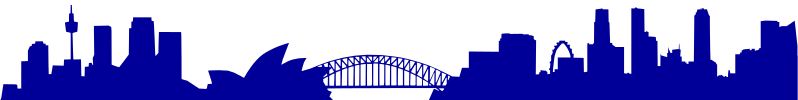
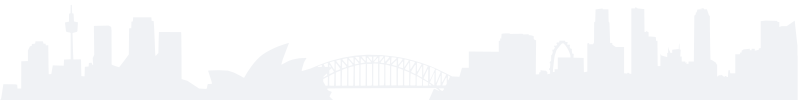
refactored theme to look like paper

diff --git a/static/style.css b/static/style.css
@@ -7,7 +7,7 @@
 
 
 /* Global Reset ***********************************************/
-html, body, h1, h2, h3, h4, h5, h6, form, fieldset, footer input, abbr,
+html, body, h1, h2, h3, h4, h5, h6, form, fieldset, abbr,
 img, table, object, iframe, a img,
 #sidebar nav ul, #sidebar nav li, #archive ul,#archive ul li {
   border:0px;           /* old opera: units even for 0 values */
@@ -23,30 +23,31 @@ hgroup, main, menu, nav, section { display:block }
 
 
 /* Palette ****************************************************/
-html,h2 a:hover {
-  background:#001581;
-  color:#ddddee;
+html {
+  background:#f0f2f5;
+  color:#5e7286;
 }
-#skyline {
-  background:#0099ff url("skyline-night.png") top center no-repeat;
-  height:100px;
-}
-h1 a,h3 a,table th,nav a,.archive dl a { color:#ffffff }
-h2 a { color:#ffffff }
-#sidebar nav a,a,time,#archive-show dl dd { color:#0099ff }
+a, nav a:hover { color:#0066ff }
+a:hover, nav a { color:#9b5dd5 }
 blockquote { 
-  border-left:5px solid #29339a;
-  color:#aaaadd;
+  border-left:1px solid #dce3ec;
+  color:#8e92a6;
 }
 pre { 
-  border-left:5px solid #29339a;
+  border-left:1px solid #29339a;
   background:#041264;
 }
-table { border-bottom:5px solid #29339a }
+table { border-bottom:1px solid #29339a }
 table th { background:#29339a }
-input {
-  background:#dee3f2;
-  color:#2b457e;
+small time {
+  text-transform:uppercase;
+  font-size:13px;
+  color:#7e92a6;
+}
+#skyline {
+  height:110px;
+  background:#ffffff url("skyline-soft.png") bottom center no-repeat;
+  margin-bottom:20px;
 }
 
 
@@ -57,11 +58,6 @@ only screen and (-o-min-device-pixel-ratio: 2/1),
 only screen and (-webkit-min-device-pixel-ratio: 2),
 only screen and (min-device-pixel-ratio: 2) {
 
-    #skyline {
-        background:#0099ff url("skyline-night2x.png") top center no-repeat;
-        background-size:821px 100px;
-    }
-
 }
 
 /* Top ********************************************************/
@@ -70,12 +66,21 @@ html {
   overflow-y:scroll;  /* persistent vertical scrollbars */
 }
 body {
-  /* Let agent choose font size (accessibility, readability, ility-ility, ah the praties) */
-  font-family:"Helvetica Neue","Source Sans Pro",Arial,"Liberation Sans",sans-serif;
+  font:16px "Helvetica Neue","Source Sans Pro",Arial,"Liberation Sans",sans-serif;
+  margin:0px auto;
   text-align:center;  /* ie6: centering */
 }
-h1,h2,h3 { font-weight:500; }
-h1,h2 { font-size:24px }
+#sandwich-wrapper {
+  text-align:left;   /* ie6: centering */
+  margin:0 auto;
+  width:780px;
+}
+h1,h2,h3 {
+  font-weight:500;
+  letter-spacing:-1px;
+}
+h1 { font-size:32px; }
+h2 { font-size:24px }
 h3 { 
   font-size:22px;
   margin-top:30px;
@@ -85,18 +90,9 @@ small {
   white-space:nowrap;
 }
 a, h1 a:hover, h2 a:hover { text-decoration:underline }
-h1 a, h2 a, a:hover { text-decoration:none }
+h1 a, h2 a { text-decoration:none; }  //text-shadow: 2px 2px 0px #dcdcdc; }
 img { display:inline; /* mozilla: fix default behaviour */ }
 ul { list-style-type:circle; }
-
-
-/* Sandwich Wrapper *******************************************/
-#sandwich-wrapper {
-  margin:0px auto;
-  padding:60px 0px 120px 0px;
-  text-align:left;  /* ie6: centering */
-  width:800px;
-}
 
 
 /* Accessibility **********************************************/
@@ -105,7 +101,8 @@ h1,h2,h3 {
      like the smell of toasted, overheating mobile devices */
   text-rendering:optimizeLegibility;
   letter-spacing:-1px;
-}
+  color:#5a7590;
+  }
 legend, #skip, #skip:hover, #skip:visited, #search input[type="submit"] {
   height:1px;
   left:0px;
@@ -122,10 +119,10 @@ hr {
 
 /* Header *****************************************************/
 #sidebar header h1 {
-  background:url("/logo-dark.svg") top center no-repeat;
-  font-size:30px;
+  background:url("/logo-white.svg") top center no-repeat;
   position:relative;
-  height:76px;
+  background-size:240px;
+  height:130px;//84px;
 }
 #sidebar h1 a {
   position:absolute;
@@ -138,6 +135,7 @@ hr {
   float:left;
   font-size:14px;
   line-height:20px;
+  padding-top:20px;
   width:140px;
 }
 #sidebar #mascot {
@@ -148,36 +146,66 @@ hr {
   display:none;
   visibility:hidden;
 }
+#sidebar nav ul li {
+}
+#sidebar nav ul {
+    border-top:1px solid #dce3ec;
+    box-shadow:2px 2px 5px #dcdcdc;
+}
+#sidebar nav ul li a {
+    display:block;
+    border:1px solid #dce3ec;
+    background:#ffffff;
+    border-top:0px;
+    text-decoration:none;
+    height:25px;
+    line-height:25px;
+    padding:0 16px;
+}
+#sidebar nav ul li a:hover {
+    background:#0066ff;
+    color:#ffffff;
+}
 
 /* Navigation *************************************************/
-#sidebar nav ul { padding-bottom:10px }
+#sidebar nav ul { margin-bottom:10px }
 #sidebar #primary-nav a { font-weight:500 }
-/*#sidebar #category-nav li {
-  display:inline;
-  margin-right:4px;
-} */
 
 
 /* Main Content ***********************************************/
-main { margin-left:200px; }
+main {
+    margin-left:170px; 
+    border-top:1px solid #dce3ec;
+    border-left:1px solid #dce3ec;
+    border-right:1px solid #dce3ec;
+    box-shadow:2px 2px 5px #dcdcdc;
+}
 
 
 /* Articles ***************************************************/
-article { margin-bottom:120px }
-article h1 { display:inline }
-article h1 a { text-decoration:none; margin-right:8px }
+article {
+    background: #ffffff;
+    padding:40px 30px 30px 30px;
+}
 article div,.secondary ul,.secondary p, #archive dl { line-height:24px }
 blockquote {
-    margin-left:0; 
-    padding-left:20px;
+    margin-left:16px;
+    padding-left:16px;
 }
 img, object, iframe, video, audio { max-width:100% }
-.secondary { margin:0px 0px 120px 200px; }
+.secondary {
+    background:#ffffff;
+    border-left:1px solid #dce3ec;
+    border-right:1px solid #dce3ec;
+    margin-left: 170px;
+    padding:40px 30px 20px 30px;
+    box-shadow:2px 2px 5px #dcdcdc;
+}
 
 
 /* Articles: Code, Quotes, Tables *****************************/
 code, pre {
-  font-family: "Lucida Console",monospace;
+  font-family:"Lucida Console",monospace;
   font-size:13px;
 }
 pre {
@@ -196,9 +224,7 @@ table th, table td {
 
 
 /* Archive ****************************************************/
-.tags {
-  font-size:14px;
-}
+.tags { font-size:14px }
 .tags a { white-space:nowrap }
 
 
@@ -212,26 +238,23 @@ table th, table td {
 
 /* Footer *****************************************************/
 footer {
-  font-size:14px;
-  line-height:20px;
-  margin-top:0px;
-  margin-left:200px;
-  padding-bottom:80px;
-  width:600px;
+    background:#ffffff;
+    border-left:1px solid #dce3ec;
+    border-right:1px solid #dce3ec;
+    border-bottom:1px solid #dce3ec;
+    line-height:24px;
+    margin:0px 0 80px 170px;
+    padding:40px 30px 20px 30px;
+    box-shadow:2px 2px 5px #dcdcdc;
 }
 
 
 /* Footer: Search *********************************************/
-input[type=text] {
-  border-radius:4px;
-  border:1px solid #000066;
-  padding:4px;
-  width:260px;
-}
+input[type=text] { width:260px }
 
 
 /* Smaller screens ********************************************/
-@media screen and (max-width: 900px) {
+@media screen and (max-width: 830px) {
   #sandwich-wrapper {
     padding:40px 0;
     width:600px;
@@ -239,7 +262,9 @@ input[type=text] {
   #sidebar {
     float:none;
     padding-bottom:40px;
+    text-align:center;
   }
+  #sidebar h1 { text-align:center }
   #sidebar li { display:inline }
   #sidebar li a { margin-right:10px; }
   #categories, #years, #mascot { 
@@ -255,9 +280,9 @@ input[type=text] {
 }
 
 /* Smallest screens ******************************************/
-@media screen and (max-width: 660px) {
+@media screen and (max-width: 630px) {
   html { border:0 }
-  #sandwich-wrapper {
+  body,footer {
     margin:0;
     min-width:320px;
     width:auto;

diff --git a/layouts/partials/sidebar.html b/layouts/partials/sidebar.html
@@ -12,8 +12,7 @@
     <li><a title="My long-running slice-of-life podcast of esoteric interests" href="{{ .Site.BaseURL }}show/">Podcast</a></li>
     <li><a href="{{ .Site.BaseURL }}subscribe/">Subscribe</a></li>
     <li id="topics"><a href="{{ .Site.BaseURL }}topics/">Topics</a></li>
-    <li><a href="{{ .Site.BaseURL }}design/">Design</a></li>
-    <li><a href="{{ .Site.BaseURL }}links/">Links</a></li>
+    <li><a href="{{ .Site.BaseURL }}omake/">Omake</a></li>
   </ul>
   <ul id="category-nav">
     <li><a title="Angmoh weeaboo posts about anime, manga and desu" href="{{ .Site.BaseURL }}anime/">Anime</a></li>

diff --git a/layouts/index.html b/layouts/index.html
@@ -16,7 +16,7 @@
 </main>
 
 <nav role="navigation" class="secondary">
-  <h1>You're on page {{ .Paginator.PageNumber }} of {{ .Paginator.TotalPages }}. Where to now?</h1>
+  <h2>You're on page {{ .Paginator.PageNumber }} of {{ .Paginator.TotalPages }}. Where to now?</h2>
   <ul>
     {{ if .Paginator.HasPrev }}<li><a href="{{ .Paginator.Prev.URL }}">&larr; Previous page</a></li>{{ end }}
     {{ if .Paginator.HasNext }}<li><a href="{{ .Paginator.Next.URL }}">&rarr; Next page</a></li>{{ end }}

diff --git a/layouts/partials/footer.html b/layouts/partials/footer.html
@@ -1,8 +1,8 @@
 <hr />
 
 <footer role="contentinfo">
-  <h1>And here's the footer</h1>
-  <p><span property="copyright" rel="copyright">Original material © 2004–2015
+  <h2>And here's the footer</h2>
+  <p><span property="copyright" rel="copyright">Original material © 2004–16
     <a href="/about/">Ruben Schade</a>.</span> 
     Dedicated to <a href="/dedication/">Debra Schade</a>.<br />
     Subscribe to <a href="https://rubenerd.com/feed/">RSS</a> or follow 
